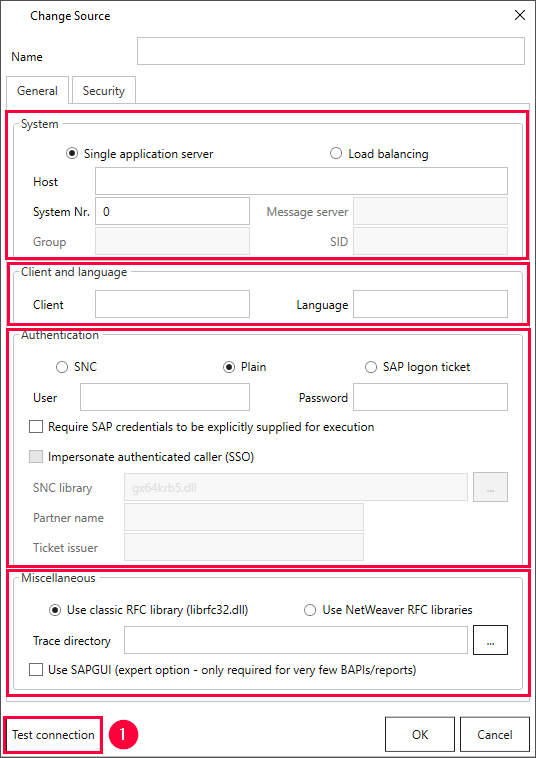
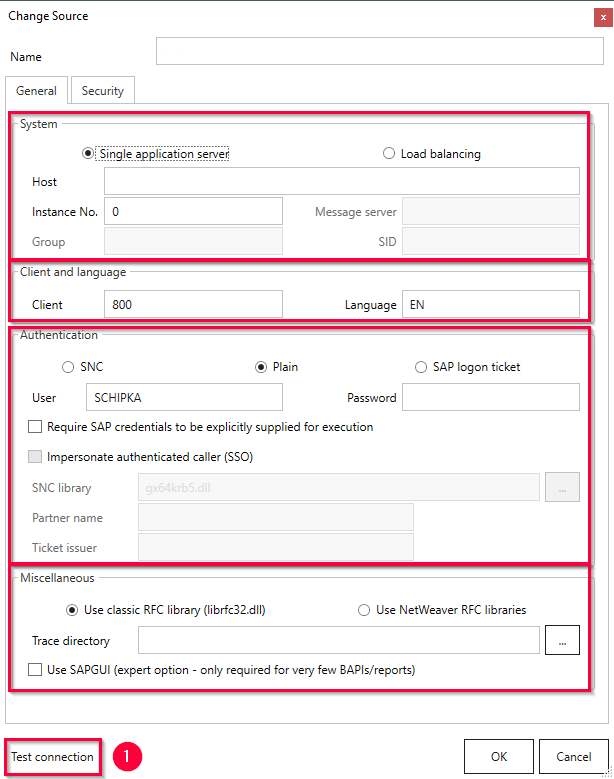
XU source settings - screenshot Update

diff --git a/_includes/_content/de/xu-specific/fortgeschrittene-techniken/sap-verbindungen-anlegen.md b/_includes/_content/de/xu-specific/fortgeschrittene-techniken/sap-verbindungen-anlegen.md
@@ -24,7 +24,7 @@ Es gibt zwei Möglichkeiten, sich mit einem SAP-Quellsystem zu verbinden:
 
 1. Use Single Application Server (Verwendung eines Single Application Servers)
 - **Host**:  Name oder IP-Adresse des Applikationsservers (Eigenschaft Host) 
-- **System No**: Systemnummer, eine Zahl zwischen 0 und 99 (Eigenschaft SystemNumber)
+- **Instance No**: Instanznummer, eine Zahl zwischen 0 und 99 (Eigenschaft SystemNumber)
 
 2. Use Load Balancing Server (message server) (Verwendung eines Load-Balancing / Message-Servers)
 - **Message Server**: Name oder IP-Adresse des Message-Servers (Eigenschaft MessageServer) 

diff --git a/_includes/_content/en/xu-specific/advanced-techniques/sap-connection.md b/_includes/_content/en/xu-specific/advanced-techniques/sap-connection.md
@@ -25,7 +25,7 @@ The SAP connection is set up successfully.
 There are two possibilities to connect to an SAP source system:
 - Use a Single Application Server
 	- **Host**:  host name or IP address of the application server (Property Host) 
-	- **System No**: a two-digit number between 00 und 99 (Property SystemNumber)
+	- **Instance No**: a two-digit number between 00 und 99 (Property SystemNumber)
 
 - Use a Load Balancing Server (message server)
 	- **Message Server**: name or IP address of the message server (Property MessageServer) 
